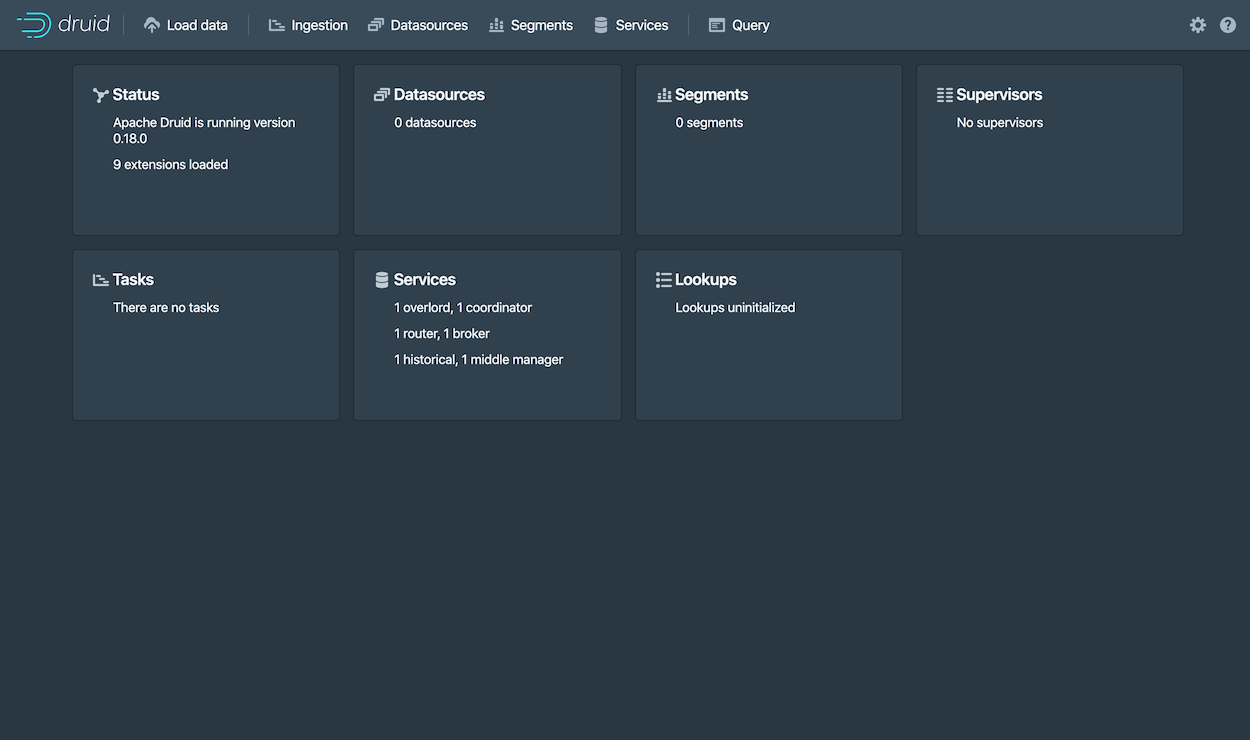
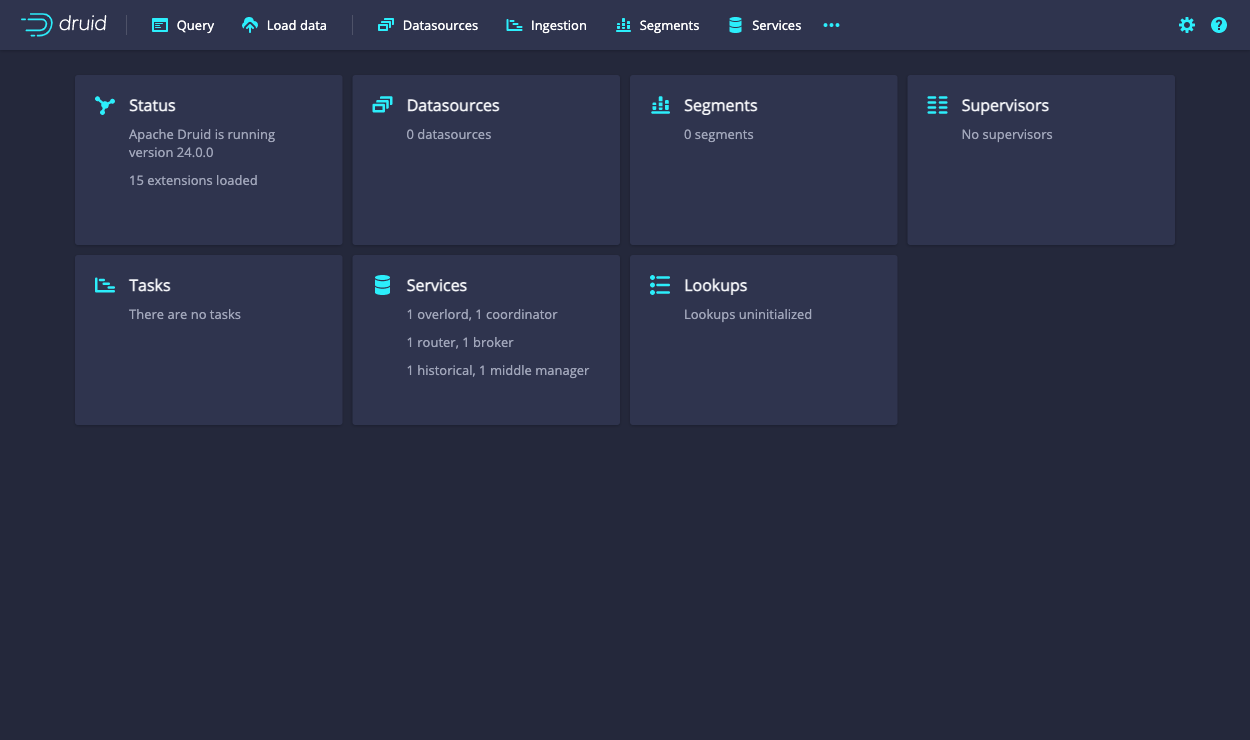
adjust docs and images (#13067)

diff --git a/docs/tutorials/index.md b/docs/tutorials/index.md
@@ -93,12 +93,15 @@ This brings up instances of ZooKeeper and the Druid services:
 
 ```bash
 $ ./bin/start-micro-quickstart
-[Fri May  3 11:40:50 2019] Running command[zk], logging to[/apache-druid-{{DRUIDVERSION}}/var/sv/zk.log]: bin/run-zk conf
-[Fri May  3 11:40:50 2019] Running command[coordinator-overlord], logging to[/apache-druid-{{DRUIDVERSION}}/var/sv/coordinator-overlord.log]: bin/run-druid coordinator-overlord conf/druid/single-server/micro-quickstart
-[Fri May  3 11:40:50 2019] Running command[broker], logging to[/apache-druid-{{DRUIDVERSION}}/var/sv/broker.log]: bin/run-druid broker conf/druid/single-server/micro-quickstart
-[Fri May  3 11:40:50 2019] Running command[router], logging to[/apache-druid-{{DRUIDVERSION}}/var/sv/router.log]: bin/run-druid router conf/druid/single-server/micro-quickstart
-[Fri May  3 11:40:50 2019] Running command[historical], logging to[/apache-druid-{{DRUIDVERSION}}/var/sv/historical.log]: bin/run-druid historical conf/druid/single-server/micro-quickstart
-[Fri May  3 11:40:50 2019] Running command[middleManager], logging to[/apache-druid-{{DRUIDVERSION}}/var/sv/middleManager.log]: bin/run-druid middleManager conf/druid/single-server/micro-quickstart
+[Thu Sep  8 18:30:00 2022] Starting Apache Druid.
+[Thu Sep  8 18:30:00 2022] Open http://localhost:8888/ in your browser to access the web console.
+[Thu Sep  8 18:30:00 2022] Or, if you have enabled TLS, use https on port 9088.
+[Thu Sep  8 18:30:00 2022] Running command[zk], logging to[/apache-druid-{{DRUIDVERSION}}/var/sv/zk.log]: bin/run-zk conf
+[Thu Sep  8 18:30:00 2022] Running command[coordinator-overlord], logging to[/apache-druid-{{DRUIDVERSION}}/var/sv/coordinator-overlord.log]: bin/run-druid coordinator-overlord conf/druid/single-server/micro-quickstart
+[Thu Sep  8 18:30:00 2022] Running command[broker], logging to[/apache-druid-{{DRUIDVERSION}}/var/sv/broker.log]: bin/run-druid broker conf/druid/single-server/micro-quickstart
+[Thu Sep  8 18:30:00 2022] Running command[router], logging to[/apache-druid-{{DRUIDVERSION}}/var/sv/router.log]: bin/run-druid router conf/druid/single-server/micro-quickstart
+[Thu Sep  8 18:30:00 2022] Running command[historical], logging to[/apache-druid-{{DRUIDVERSION}}/var/sv/historical.log]: bin/run-druid historical conf/druid/single-server/micro-quickstart
+[Thu Sep  8 18:30:00 2022] Running command[middleManager], logging to[/apache-druid-{{DRUIDVERSION}}/var/sv/middleManager.log]: bin/run-druid middleManager conf/druid/single-server/micro-quickstart
 ```
 
 All persistent state, such as the cluster metadata store and segments for the services, are kept in the `var` directory under 
